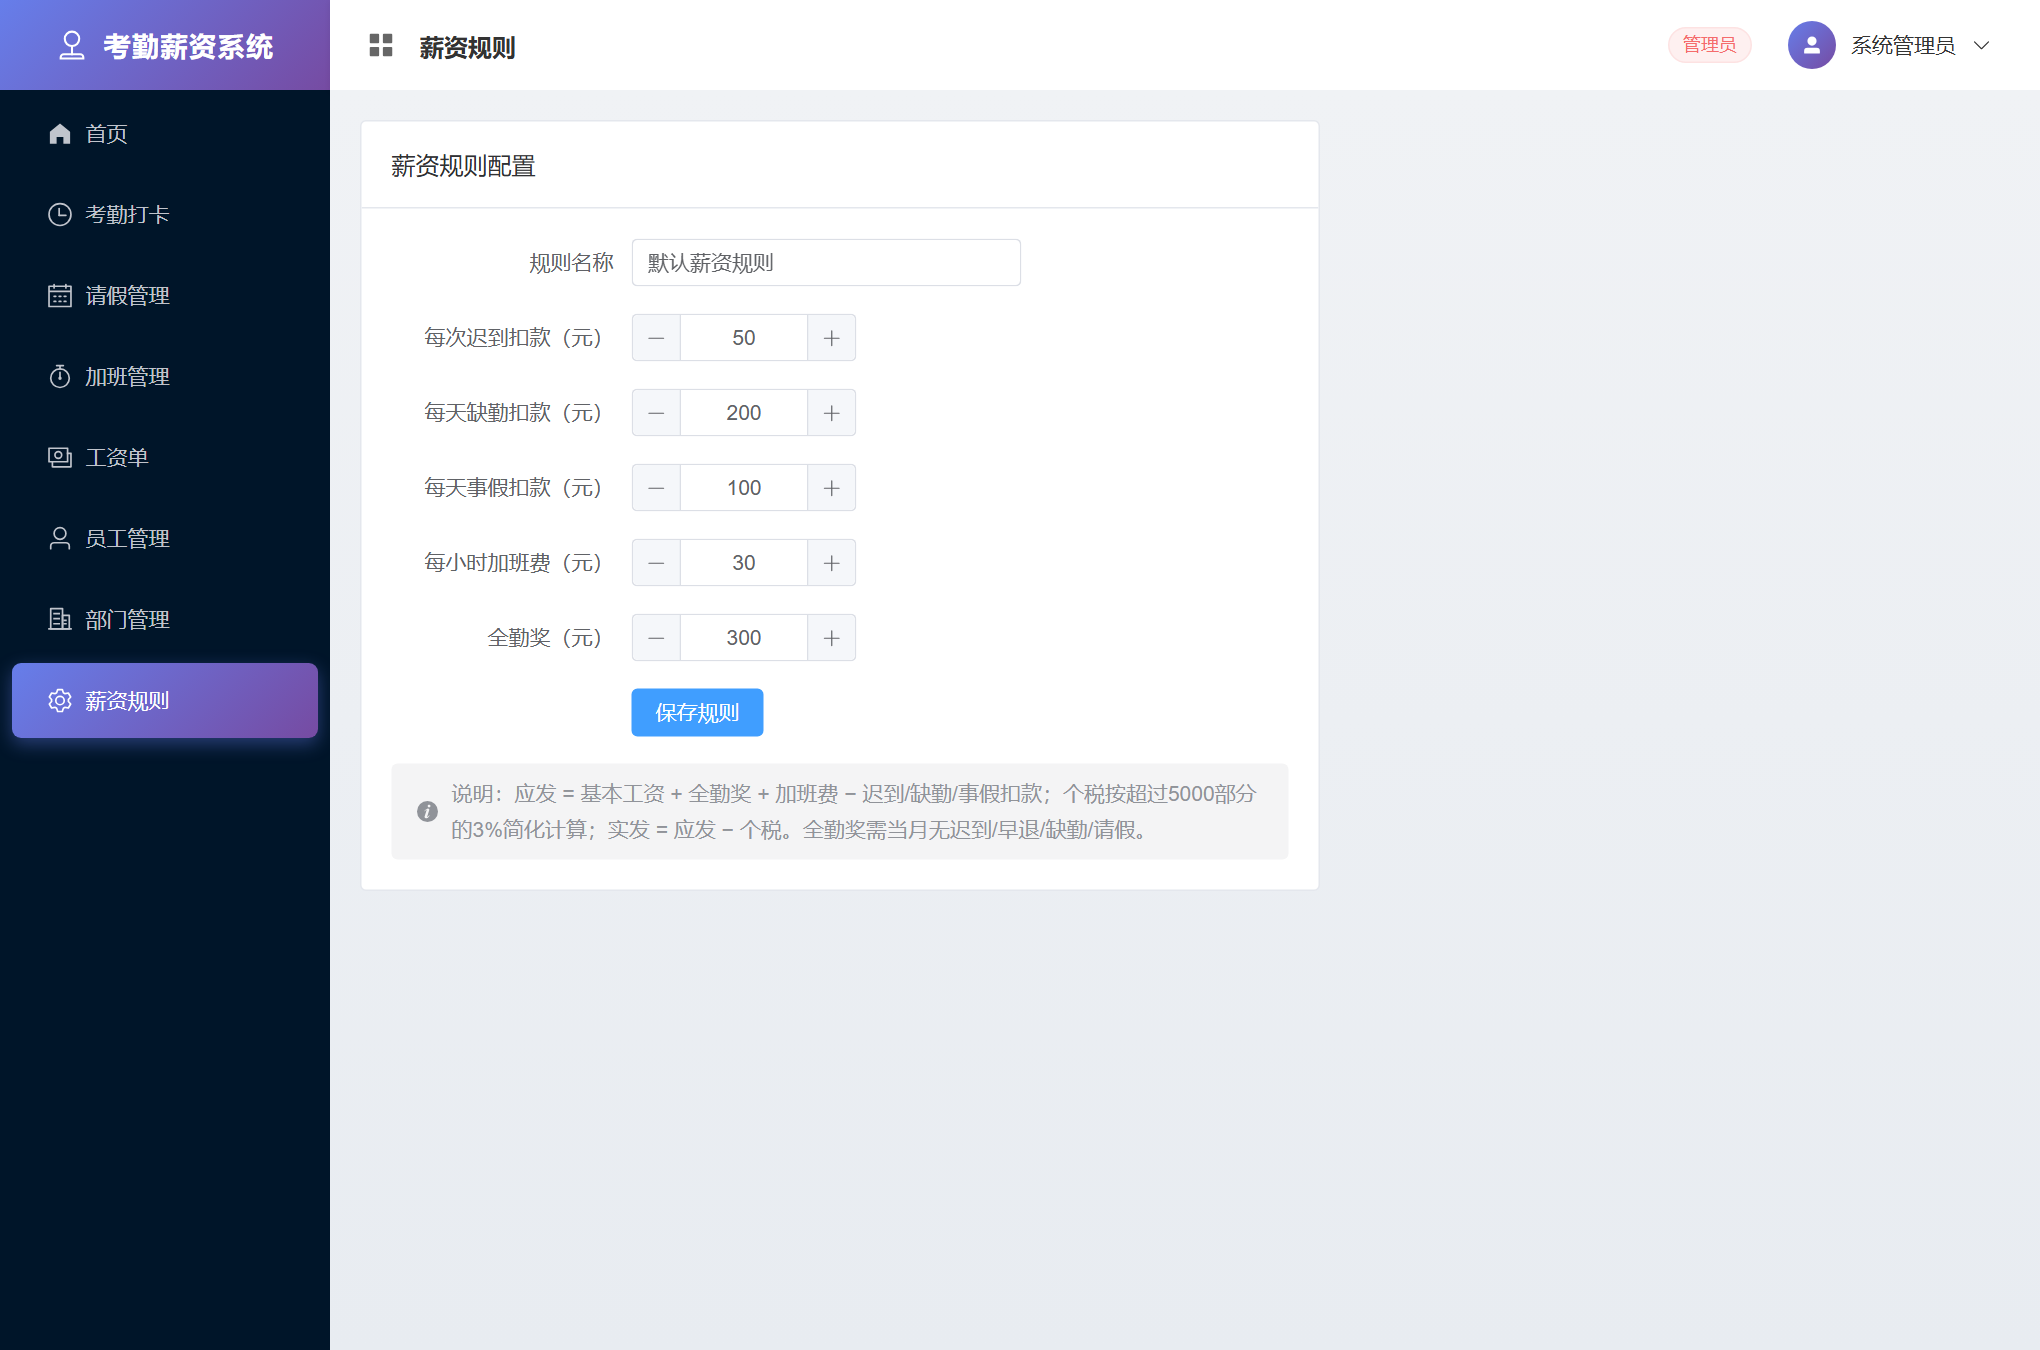
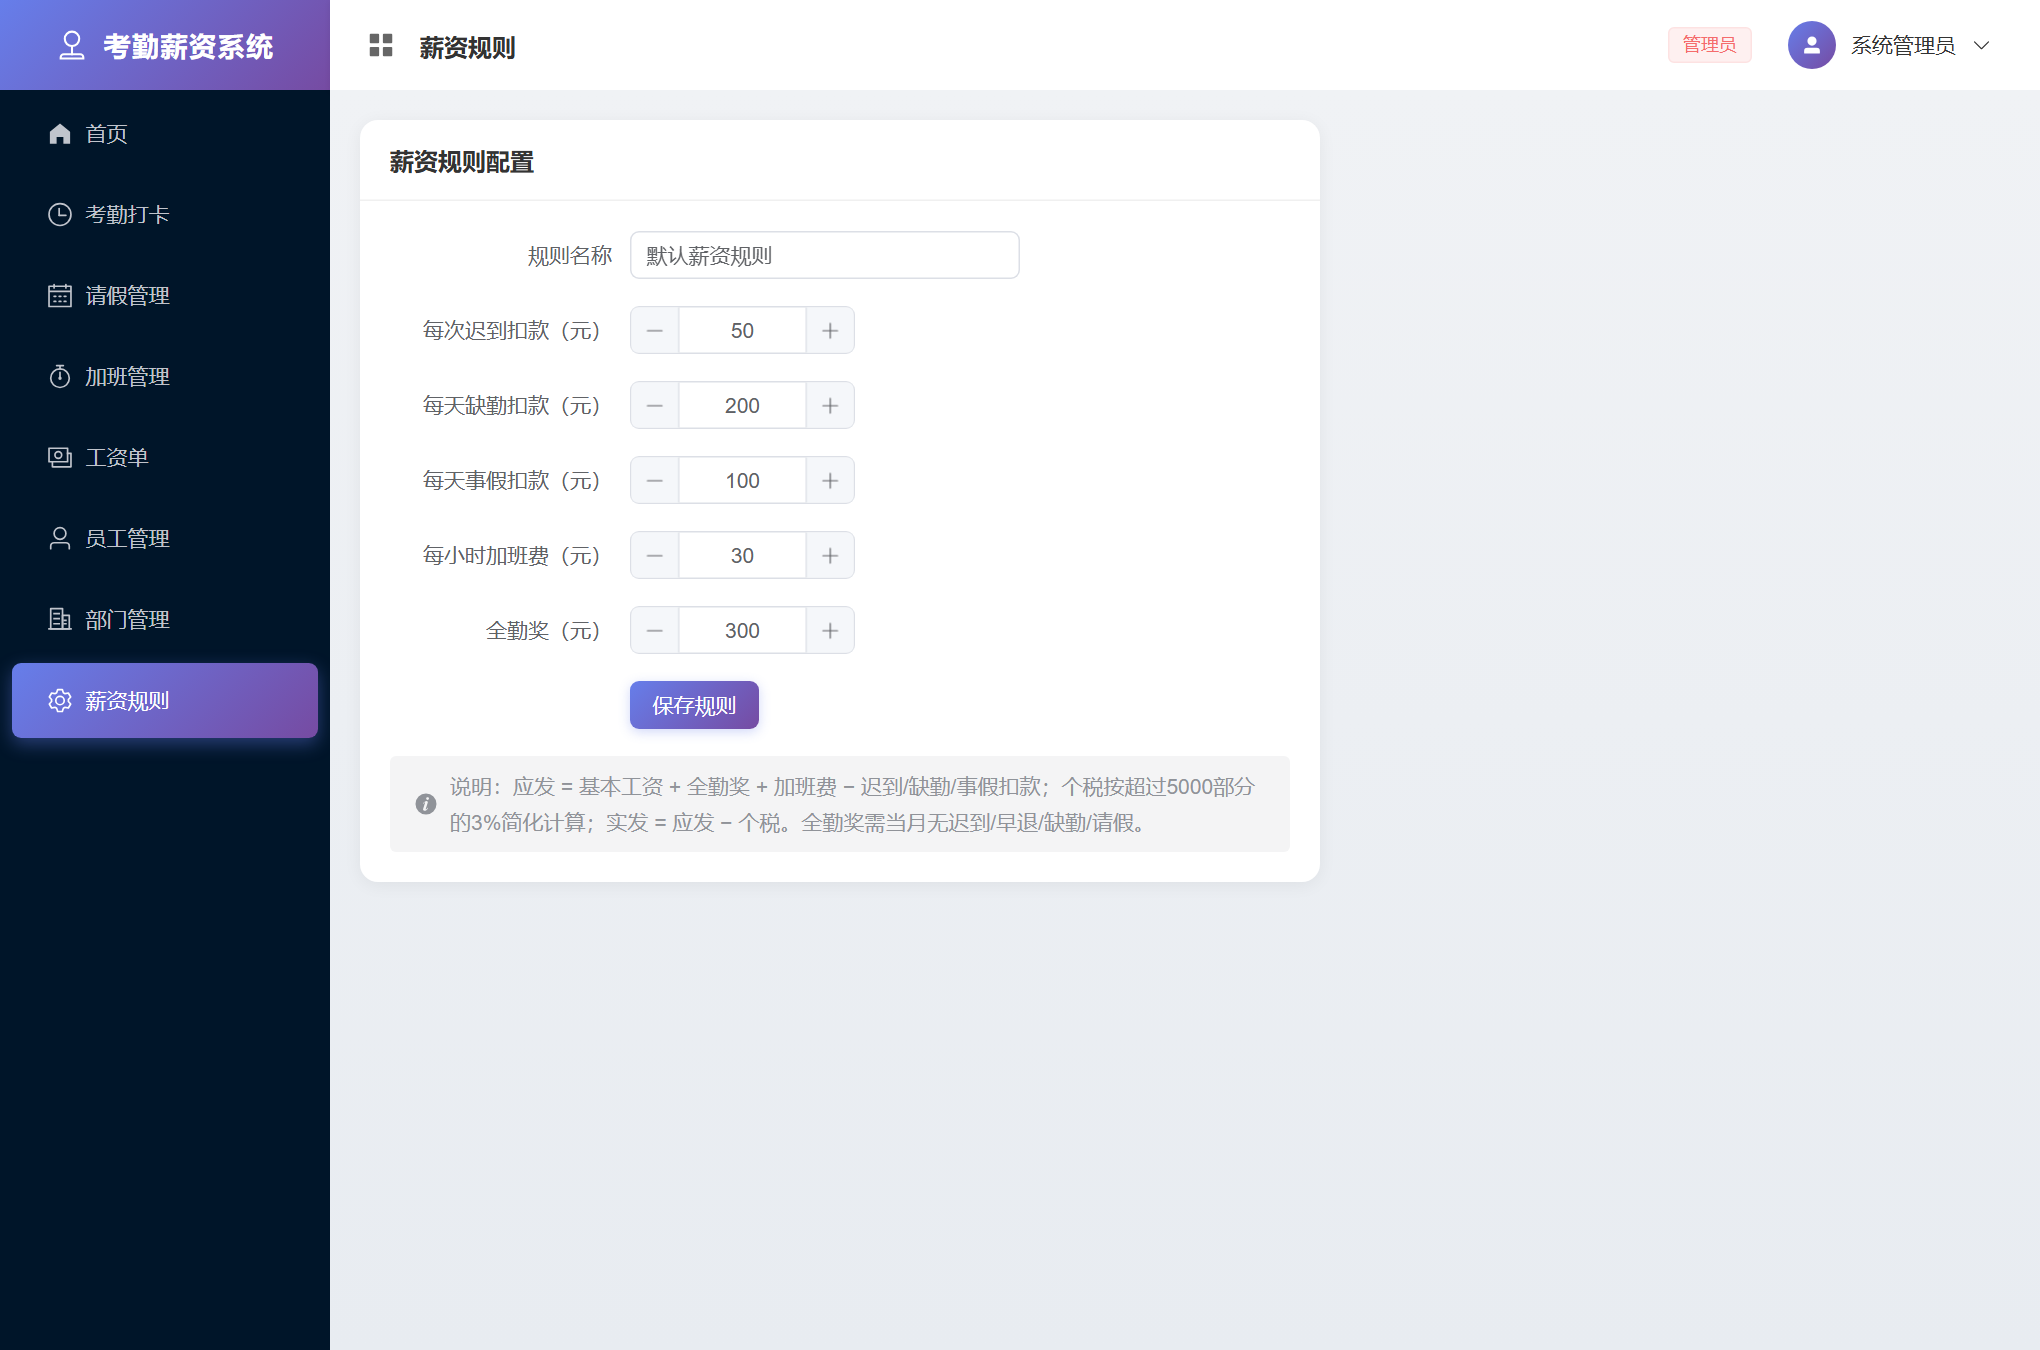
style: 全局样式统一 - 卡片/表格/按钮/对话框/分页风格一致

diff --git a/frontend/src/style.css b/frontend/src/style.css
@@ -21,9 +21,211 @@ body {
 }
 
 .page-toolbar {
-  margin-bottom: 16px;
+  margin-bottom: 20px;
   display: flex;
   gap: 12px;
   flex-wrap: wrap;
   align-items: center;
 }
+
+/* ===== 卡片统一样式 ===== */
+.el-card {
+  border-radius: 12px !important;
+  border: none !important;
+  box-shadow: 0 2px 12px rgba(0, 0, 0, 0.06) !important;
+  transition: all 0.3s ease;
+}
+
+.el-card:hover {
+  box-shadow: 0 4px 20px rgba(0, 0, 0, 0.1) !important;
+}
+
+.el-card__header {
+  border-bottom: 1px solid #f0f0f0 !important;
+  font-weight: 600 !important;
+  color: #333 !important;
+  padding: 16px 20px !important;
+}
+
+.el-card__body {
+  padding: 20px !important;
+}
+
+/* ===== 表格统一样式 ===== */
+.el-table {
+  border-radius: 8px;
+  overflow: hidden;
+}
+
+.el-table th.el-table__cell {
+  background-color: #fafafa !important;
+  color: #666 !important;
+  font-weight: 600 !important;
+  border-bottom: 1px solid #ebeef5 !important;
+}
+
+.el-table tr:hover > td {
+  background-color: #f5f7fa !important;
+}
+
+.el-table--striped .el-table__body tr.el-table__row--striped td.el-table__cell {
+  background-color: #fafbfc !important;
+}
+
+/* ===== 按钮统一样式 ===== */
+.el-button {
+  border-radius: 6px !important;
+  font-weight: 500 !important;
+  transition: all 0.3s ease !important;
+}
+
+.el-button:not(.is-link) {
+  border: none !important;
+}
+
+.el-button--primary:not(.is-link) {
+  background: linear-gradient(135deg, #667eea 0%, #764ba2 100%) !important;
+  box-shadow: 0 2px 8px rgba(102, 126, 234, 0.3) !important;
+}
+
+.el-button--primary:not(.is-link):hover {
+  transform: translateY(-1px) !important;
+  box-shadow: 0 4px 12px rgba(102, 126, 234, 0.4) !important;
+}
+
+.el-button--success:not(.is-link) {
+  background: linear-gradient(135deg, #11998e 0%, #38ef7d 100%) !important;
+  box-shadow: 0 2px 8px rgba(17, 153, 142, 0.3) !important;
+}
+
+.el-button--success:not(.is-link):hover {
+  transform: translateY(-1px) !important;
+  box-shadow: 0 4px 12px rgba(17, 153, 142, 0.4) !important;
+}
+
+.el-button--warning:not(.is-link) {
+  background: linear-gradient(135deg, #f093fb 0%, #f5576c 100%) !important;
+  box-shadow: 0 2px 8px rgba(240, 147, 251, 0.3) !important;
+}
+
+.el-button--warning:not(.is-link):hover {
+  transform: translateY(-1px) !important;
+  box-shadow: 0 4px 12px rgba(240, 147, 251, 0.4) !important;
+}
+
+.el-button--danger:not(.is-link) {
+  background: linear-gradient(135deg, #ff6b6b 0%, #ee5a6f 100%) !important;
+  box-shadow: 0 2px 8px rgba(255, 107, 107, 0.3) !important;
+}
+
+.el-button--danger:not(.is-link):hover {
+  transform: translateY(-1px) !important;
+  box-shadow: 0 4px 12px rgba(255, 107, 107, 0.4) !important;
+}
+
+/* link 类型按钮 */
+.el-button--primary.is-link {
+  color: #667eea !important;
+}
+
+.el-button--danger.is-link {
+  color: #f56c6c !important;
+}
+
+/* ===== 输入框统一样式 ===== */
+.el-input__wrapper {
+  border-radius: 6px !important;
+  box-shadow: 0 0 0 1px #dcdfe6 inset !important;
+  transition: all 0.3s ease !important;
+}
+
+.el-input__wrapper:hover {
+  box-shadow: 0 0 0 1px #667eea inset !important;
+}
+
+.el-input.is-focus .el-input__wrapper {
+  box-shadow: 0 0 0 1px #667eea inset, 0 0 0 3px rgba(102, 126, 234, 0.1) !important;
+}
+
+/* ===== 选择器统一样式 ===== */
+.el-select .el-input__wrapper {
+  border-radius: 6px !important;
+}
+
+/* ===== 分页统一样式 ===== */
+.pager {
+  margin-top: 20px;
+  display: flex;
+  justify-content: flex-end;
+}
+
+.el-pagination button:hover {
+  color: #667eea !important;
+}
+
+.el-pagination.is-background .el-pager li:not(.disabled).is-active {
+  background: linear-gradient(135deg, #667eea 0%, #764ba2 100%) !important;
+}
+
+/* ===== 标签统一样式 ===== */
+.el-tag {
+  border-radius: 4px !important;
+  font-weight: 500 !important;
+}
+
+/* ===== 对话框统一样式 ===== */
+.el-dialog {
+  border-radius: 12px !important;
+  overflow: hidden;
+}
+
+.el-dialog__header {
+  background: linear-gradient(135deg, #667eea 0%, #764ba2 100%) !important;
+  color: #fff !important;
+  padding: 16px 20px !important;
+}
+
+.el-dialog__title {
+  color: #fff !important;
+  font-weight: 600 !important;
+}
+
+.el-dialog__headerbtn .el-dialog__close {
+  color: #fff !important;
+}
+
+.el-dialog__headerbtn:hover .el-dialog__close {
+  color: rgba(255, 255, 255, 0.8) !important;
+}
+
+.el-dialog__body {
+  padding: 24px 20px !important;
+}
+
+.el-dialog__footer {
+  padding: 16px 20px !important;
+  border-top: 1px solid #f0f0f0 !important;
+}
+
+/* ===== 日期选择器统一样式 ===== */
+.el-date-editor .el-input__wrapper {
+  border-radius: 6px !important;
+}
+
+/* ===== 单选框统一样式 ===== */
+.el-radio__input.is-checked .el-radio__inner {
+  border-color: #667eea !important;
+  background: #667eea !important;
+}
+
+.el-radio__input.is-checked + .el-radio__label {
+  color: #667eea !important;
+}
+
+/* ===== 下拉菜单统一样式 ===== */
+.el-dropdown-menu__item:focus,
+.el-dropdown-menu__item:not(.is-disabled):hover {
+  background-color: rgba(102, 126, 234, 0.1) !important;
+  color: #667eea !important;
+}
+
